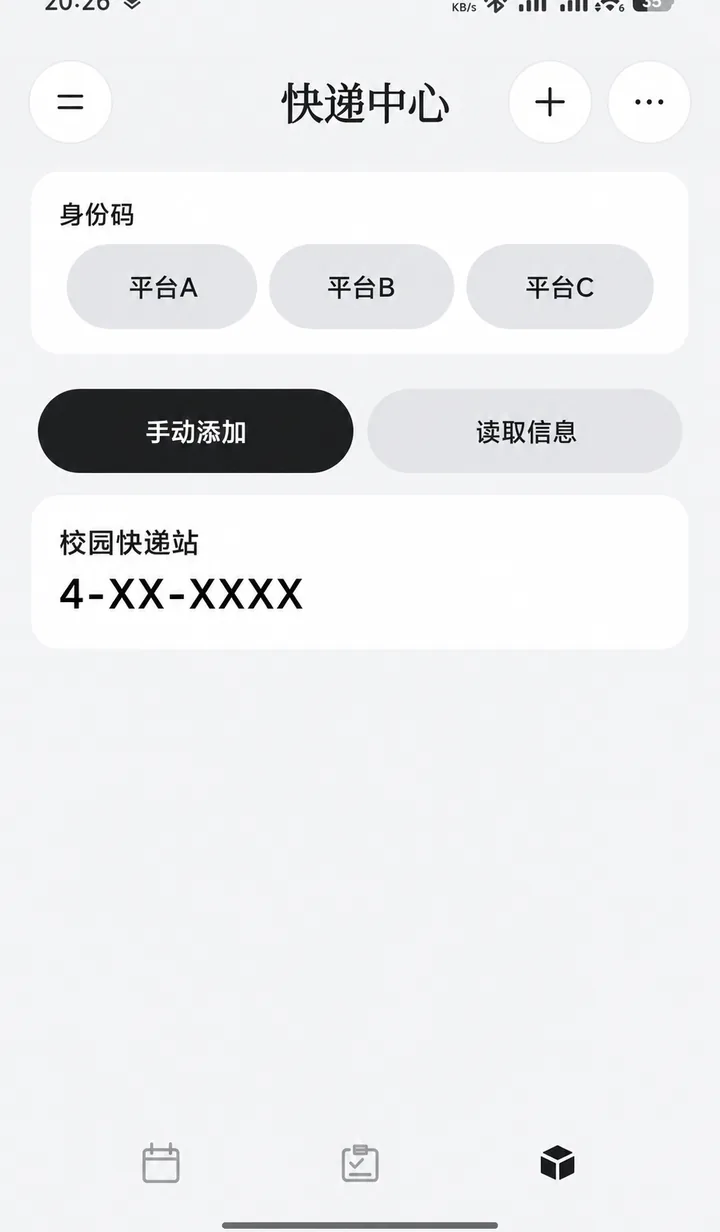
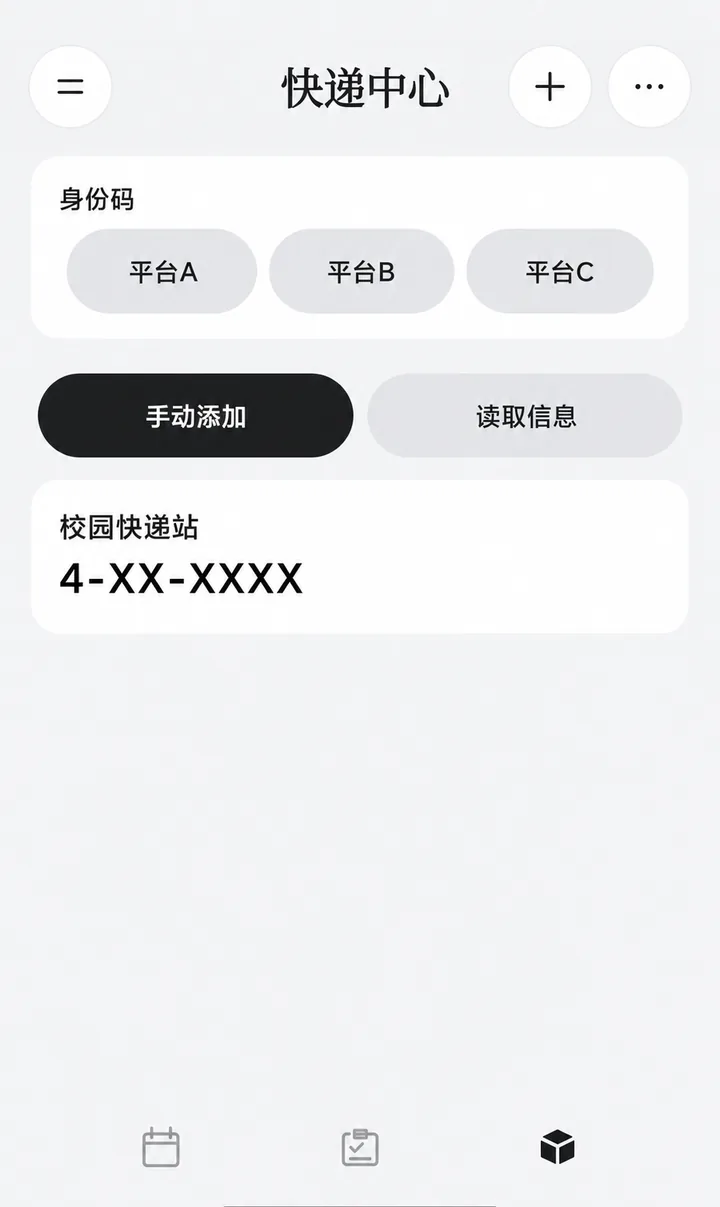
Refine desktop download layout and trim screenshot bars
Put the full edition first in a vertical download stack on every viewport and crop the status and gesture bars from the website screenshots.

diff --git a/web/index.html b/web/index.html
@@ -40,7 +40,7 @@
         <p class="fine-print">适用于 Android 8.0 及以上<br>从 GitHub 下载最新正式版 APK</p>
       </div>
       <figure class="product-preview">
-        <img class="timetable" src="assets/app-timetable.webp" width="720" height="1232" fetchpriority="high" alt="Morrow 课表页示例：按周显示课程、教室与上课时间；所有课程与教室均为合成示例。">
+        <img class="timetable" src="assets/app-timetable.webp" width="720" height="1207" fetchpriority="high" alt="Morrow 课表页示例：按周显示课程、教室与上课时间；所有课程与教室均为合成示例。">
         <figcaption>界面参考 · 示例数据</figcaption>
       </figure>
     </section>
@@ -68,11 +68,11 @@
       </div>
       <div class="module-grid">
         <figure class="module-card">
-          <img src="assets/app-tasks.webp" width="720" height="1232" loading="lazy" alt="Morrow 任务页示例：按课程分组显示作业名称、待交数量和截止时间；所有任务与课程均为合成示例。">
+          <img src="assets/app-tasks.webp" width="720" height="1207" loading="lazy" alt="Morrow 任务页示例：按课程分组显示作业名称、待交数量和截止时间；所有任务与课程均为合成示例。">
           <figcaption><strong>任务</strong><span>按课程归拢作业，最近截止优先。</span></figcaption>
         </figure>
         <figure class="module-card">
-          <img src="assets/app-parcels.webp" width="720" height="1232" loading="lazy" alt="Morrow 快递中心示例：展示身份码入口、手动添加和读取信息按钮，以及合成取件码。">
+          <img src="assets/app-parcels.webp" width="720" height="1207" loading="lazy" alt="Morrow 快递中心示例：展示身份码入口、手动添加和读取信息按钮，以及合成取件码。">
           <figcaption><strong>快递</strong><span>取件码集中管理，支持图片识别。</span></figcaption>
         </figure>
       </div>
@@ -117,7 +117,7 @@
 
     <section class="download wrap" id="download" aria-labelledby="download-title">
       <h2 id="download-title">选择适合你的版本</h2>
-      <p>轻量版安装包更小，需要识图时再下载插件；完整版内置图片识别，安装后即可离线使用。</p>
+      <p>完整版内置图片识别，安装后即可离线使用；轻量版安装包更小，需要识图时再下载插件。</p>
       <div class="actions">
         <a class="button" data-download="full" href="https://github.com/fangfar/Morrow/releases/latest"><img class="light-icon" src="assets/android2.svg" width="24" height="24" alt="">下载完整版</a>
         <a class="button secondary" data-download="lite" href="https://github.com/fangfar/Morrow/releases/latest"><img src="assets/android2.svg" width="24" height="24" alt="">下载轻量版</a>

diff --git a/web/styles.css b/web/styles.css
@@ -100,8 +100,9 @@ details[open] .summary-hint::after { content: "−"; }
 .privacy-copy p { margin-block: 12px; }
 .privacy-copy a { color: var(--blue); text-decoration: underline; text-underline-offset: 4px; display: inline-flex; align-items: center; min-height: 44px; }
 .download { text-align: center; padding-block: 72px; }
-.download .actions { justify-content: center; margin-top: 28px; }
-.download .secondary { color: var(--ink); border-color: var(--line); }
+.download .actions { flex-direction: column; align-items: center; justify-content: center; gap: 12px; margin-top: 28px; }
+.download .button { width: min(340px, 100%); }
+.download .secondary { width: min(300px, 100%); color: var(--ink); border-color: var(--line); }
 .site-footer { display: flex; align-items: center; justify-content: space-between; gap: 28px; border-top: 1px solid var(--line); padding-block: 28px 36px; }
 .site-footer .brand strong { font-size: 18px; }
 .site-footer .brand img { width: 40px; height: 40px; }
